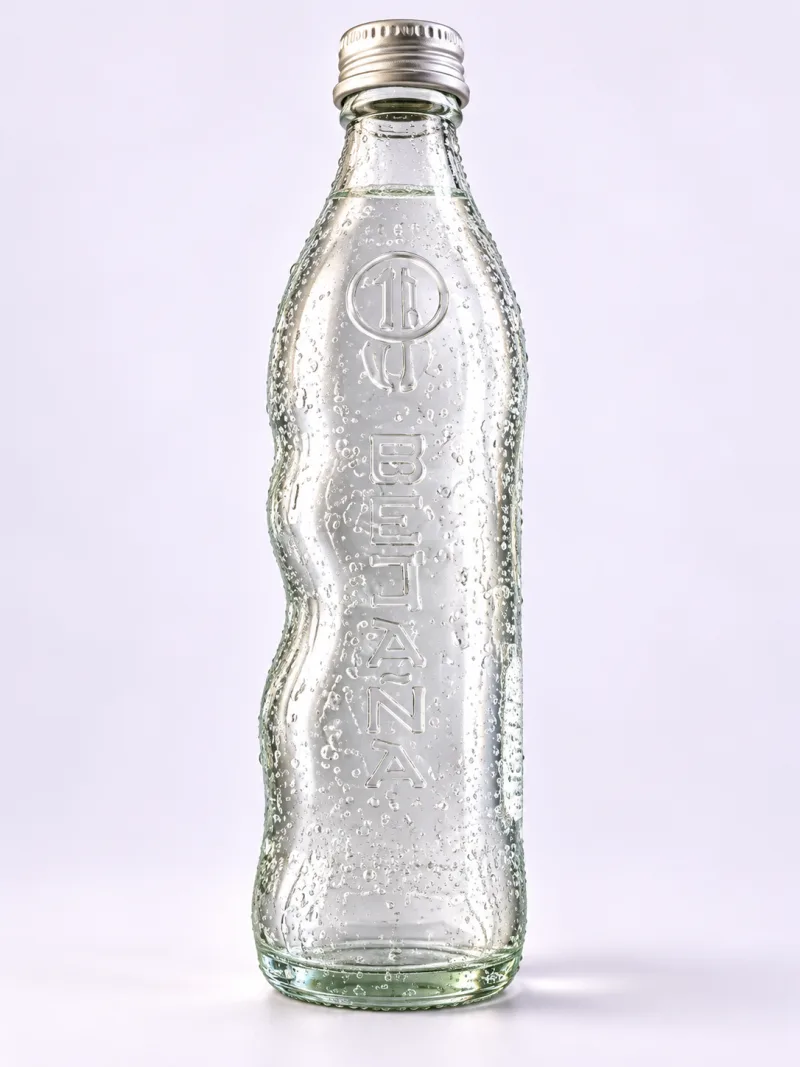
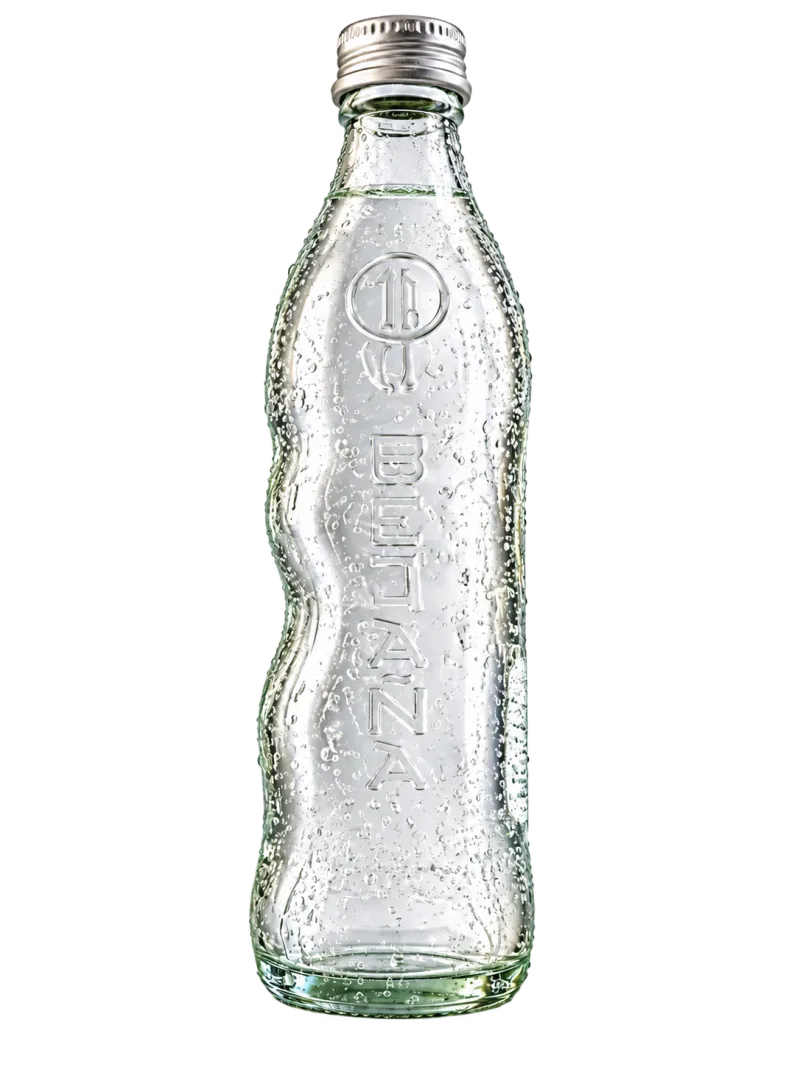
Complete catalog photos and show full images

diff --git a/src/domain/productImages.ts b/src/domain/productImages.ts
@@ -8,17 +8,17 @@ const BARE_FILENAME_RE = /^[^/]+\.(png|jpe?g|webp|avif|gif|svg)$/i;
 // Product-specific overrides live here until catalog images are fully managed in admin.
 const KNOWN_BAD_PRODUCT_IMAGE_IDS = new Set<string>([
   'chilli-burger-veggie',
-  'be1fa199-5029-433f-7ccf-8fce38116665', // TERIYAKI Bowl stock-photo placeholder
-  '1232c37b-9b66-78d2-43af-285c23ddcd7b', // Salchipapa stock-photo placeholder
-  '446beb63-71b7-7242-3797-db75472451d9', // Hamburguesa VEGGIE stock-photo placeholder
-  'edfc2bdb-d986-d364-5080-a7868f942bf4', // Hamburguesa VEGGIE stock-photo placeholder
-  '2422e354-e353-b8ca-626d-a97d577ca8cc', // Hot Dog Americano stock-photo placeholder
 ]);
 
 // ID-based overrides: local images take priority over any Supabase image_url.
 // Used for products whose catalog image_url points to a generic/incorrect stock photo.
 const PRODUCT_IMAGE_OVERRIDES: Record<string, string> = {
   'd631af2e-93d7-44a9-0789-7cf0c824e773': '/images/products/bretana.webp',            // Bretaña 300 ml
+  'be1fa199-5029-433f-7ccf-8fce38116665': '/images/products/bowl-teriyaki.webp',       // TERIYAKI bowl
+  '1232c37b-9b66-78d2-43af-285c23ddcd7b': '/images/products/salchipapa.webp',         // Salchipapa
+  '446beb63-71b7-7242-3797-db75472451d9': '/images/products/hamburguesa-veggie.webp', // VEGGIE burger
+  'edfc2bdb-d986-d364-5080-a7868f942bf4': '/images/products/bowl-veggie.webp',         // VEGGIE bowl
+  '2422e354-e353-b8ca-626d-a97d577ca8cc': '/images/products/perro-americano.webp',    // Americano hot dog
   '23e44c1b-fe27-251a-0759-74f798d65e53': '/images/adicionales/03_guacamole.webp',     // Guacamole
   '3d9f5e71-d95c-7b13-5898-33a0c9e8e04e': '/images/adicionales/04_papas_francesa.webp', // Papa Francesa
   '978c1802-ff11-1e54-8ea9-7995664d91a9': '/images/adicionales/05_pepinillos.webp',      // Pepinillos
@@ -27,17 +27,9 @@ const PRODUCT_IMAGE_OVERRIDES: Record<string, string> = {
   '7e9a2544-4712-8633-f844-0766c82a2a01': '/images/adicionales/06_tocineta.webp',        // Tocineta
 };
 
-const PORTRAIT_PRODUCT_IMAGE_IDS = new Set<string>([
-  'd631af2e-93d7-44a9-0789-7cf0c824e773',
-]);
-
 type ProductImageSource = Pick<Product, 'id' | 'imageUrl'>;
 
 export const PRODUCT_IMAGE_PLACEHOLDER_SRC = '/placeholder.svg';
-
-export function shouldContainProductImage(product: Pick<Product, 'id'>): boolean {
-  return PORTRAIT_PRODUCT_IMAGE_IDS.has(product.id);
-}
 
 export function resolveProductImageUrl(product: ProductImageSource): string | undefined {
   if (PRODUCT_IMAGE_OVERRIDES[product.id]) {

diff --git a/src/components/products/ProductImage.tsx b/src/components/products/ProductImage.tsx
@@ -1,7 +1,7 @@
 import { useEffect, useMemo, useRef, useState } from 'react';
 import { AspectRatio } from '@/components/ui/aspect-ratio';
 import { Skeleton } from '@/components/ui/skeleton';
-import { PRODUCT_IMAGE_PLACEHOLDER_SRC, getProductImageFallbackInitial, resolveProductImageUrl, shouldContainProductImage } from '@/domain/productImages';
+import { PRODUCT_IMAGE_PLACEHOLDER_SRC, getProductImageFallbackInitial, resolveProductImageUrl } from '@/domain/productImages';
 import { cn } from '@/lib/utils';
 import type { Product } from '@/types';
 
@@ -9,14 +9,12 @@ interface ProductImageProps {
   product: Product;
   ratio?: number;
   className?: string;
-  imageClassName?: string;
   fallbackClassName?: string;
 }
 
 function ProductImageContent({
   product,
   className,
-  imageClassName,
   fallbackClassName,
 }: Omit<ProductImageProps, 'ratio'>) {
   const containerRef = useRef<HTMLDivElement>(null);
@@ -57,7 +55,7 @@ function ProductImageContent({
   }, [resolvedImageUrl]);
 
   return (
-    <div ref={containerRef} className={cn('relative h-full w-full overflow-hidden bg-brand-muted', className)}>
+    <div ref={containerRef} className={cn('relative h-full w-full overflow-hidden bg-white', className)}>
       {showImage ? (
         <>
           {!isLoaded ? <Skeleton className="absolute inset-0 rounded-none" /> : null}
@@ -73,10 +71,8 @@ function ProductImageContent({
                 setIsLoaded(false);
               }}
               className={cn(
-                'h-full w-full object-cover transition-all duration-300',
-                shouldContainProductImage(product) && 'object-contain',
-                isLoaded ? 'opacity-100 group-hover:scale-105' : 'opacity-0',
-                imageClassName,
+                'h-full w-full object-contain p-2 transition-opacity duration-300',
+                isLoaded ? 'opacity-100' : 'opacity-0',
               )}
             />
           ) : null}
@@ -102,7 +98,6 @@ export default function ProductImage({
   product,
   ratio = 4 / 3,
   className,
-  imageClassName,
   fallbackClassName,
 }: ProductImageProps) {
   return (
@@ -110,7 +105,6 @@ export default function ProductImage({
       <ProductImageContent
         product={product}
         className={className}
-        imageClassName={imageClassName}
         fallbackClassName={fallbackClassName}
       />
     </AspectRatio>

diff --git a/src/test/product-images.test.ts b/src/test/product-images.test.ts
@@ -1,5 +1,5 @@
 import { describe, expect, it } from 'vitest';
-import { resolveProductImageUrl, shouldContainProductImage } from '@/domain/productImages';
+import { resolveProductImageUrl } from '@/domain/productImages';
 
 describe('product image resolution', () => {
   it('rejects legacy bare filenames that do not exist in the public app', () => {
@@ -28,20 +28,20 @@ describe('product image resolution', () => {
     })).toBeUndefined();
   });
 
-  it('suppresses catalog stock-photo placeholders', () => {
-    const placeholderIds = [
-      'be1fa199-5029-433f-7ccf-8fce38116665',
-      '1232c37b-9b66-78d2-43af-285c23ddcd7b',
-      '446beb63-71b7-7242-3797-db75472451d9',
-      'edfc2bdb-d986-d364-5080-a7868f942bf4',
-      '2422e354-e353-b8ca-626d-a97d577ca8cc',
-    ];
+  it('replaces hidden catalog photos with product-specific local images', () => {
+    const replacements = {
+      'be1fa199-5029-433f-7ccf-8fce38116665': '/images/products/bowl-teriyaki.webp',
+      '1232c37b-9b66-78d2-43af-285c23ddcd7b': '/images/products/salchipapa.webp',
+      '446beb63-71b7-7242-3797-db75472451d9': '/images/products/hamburguesa-veggie.webp',
+      'edfc2bdb-d986-d364-5080-a7868f942bf4': '/images/products/bowl-veggie.webp',
+      '2422e354-e353-b8ca-626d-a97d577ca8cc': '/images/products/perro-americano.webp',
+    };
 
-    for (const id of placeholderIds) {
+    for (const [id, expectedUrl] of Object.entries(replacements)) {
       expect(resolveProductImageUrl({
         id,
         imageUrl: 'https://images.unsplash.com/placeholder?w=400&q=80',
-      })).toBeUndefined();
+      })).toBe(expectedUrl);
     }
   });
 
@@ -52,13 +52,12 @@ describe('product image resolution', () => {
     })).toBe('/images/adicionales/02_queso_frito.webp');
   });
 
-  it('uses the local Bretaña photo and keeps the full bottle visible', () => {
+  it('uses the local Bretaña photo', () => {
     const bretana = {
       id: 'd631af2e-93d7-44a9-0789-7cf0c824e773',
       imageUrl: 'https://example.com/old-bretana.webp',
     };
 
     expect(resolveProductImageUrl(bretana)).toBe('/images/products/bretana.webp');
-    expect(shouldContainProductImage(bretana)).toBe(true);
   });
 });

diff --git a/src/components/ohana/BowlBuilder.tsx b/src/components/ohana/BowlBuilder.tsx
@@ -18,7 +18,7 @@ import {
 } from '@/domain/bowlPricing';
 import { formatGroupedIngredients } from '@/domain/bowlSummary';
 import { formatPrice } from '@/domain/formatPrice';
-import { getAdditionalIngredientImageUrl, resolveProductImageUrl, shouldContainProductImage } from '@/domain/productImages';
+import { getAdditionalIngredientImageUrl, resolveProductImageUrl } from '@/domain/productImages';
 import { cn } from '@/lib/utils';
 import type { BowlBuilderStep, BowlSizeRule, CustomBowl, Ingredient, Product } from '@/types';
 
@@ -1585,7 +1585,7 @@ export default function BowlBuilder({ onComplete }: BowlBuilderProps) {
                         return (
                           <div key={drink.id} className="snap-start shrink-0 w-32 md:w-auto">
                             {resolveProductImageUrl(drink) ? (
-                              <img src={resolveProductImageUrl(drink)} alt={drink.name} className={cn('w-full h-20 object-cover rounded-lg', shouldContainProductImage(drink) && 'object-contain')} />
+                              <img src={resolveProductImageUrl(drink)} alt={drink.name} className="w-full h-20 object-contain bg-white rounded-lg" />
                             ) : (
                               <div className="w-full h-20 bg-brand/20 rounded-lg" />
                             )}
@@ -1624,7 +1624,7 @@ export default function BowlBuilder({ onComplete }: BowlBuilderProps) {
                               <img
                                 src={imgSrc}
                                 alt={ing.name}
-                                className="w-full h-20 object-cover rounded-lg mb-2"
+                                className="w-full h-20 object-contain bg-white rounded-lg mb-2"
                               />
                             )}
                             <p className="text-xs font-semibold line-clamp-1">{ing.name}</p>

diff --git a/src/components/products/ProductDrawer.tsx b/src/components/products/ProductDrawer.tsx
@@ -4,7 +4,7 @@ import { Sheet, SheetContent, SheetDescription, SheetTitle } from '@/components/
 import { Skeleton } from '@/components/ui/skeleton';
 import { useProductDefaultIngredients } from '@/hooks/use-catalog';
 import { formatPrice } from '@/domain/formatPrice';
-import { resolveProductImageUrl, shouldContainProductImage } from '@/domain/productImages';
+import { resolveProductImageUrl } from '@/domain/productImages';
 import { cn } from '@/lib/utils';
 import type { Product, ProductCustomization } from '@/types';
 
@@ -102,7 +102,7 @@ export default function ProductDrawer({ product, open, onClose, onConfirm }: Pro
             <img
               src={resolveProductImageUrl(product)}
               alt={product.name}
-              className={cn('w-full h-40 object-cover rounded-t-2xl sm:rounded-none', shouldContainProductImage(product) && 'object-contain')}
+              className="w-full h-40 object-contain bg-white p-2 rounded-t-2xl sm:rounded-none"
             />
           )}
 

diff --git a/src/components/products/ProductCard.tsx b/src/components/products/ProductCard.tsx
@@ -71,7 +71,6 @@ export default function ProductCard({ product, variant = 'default', categoryName
             product={product}
             ratio={1}
             className="rounded-lg"
-            imageClassName="group-hover:scale-105"
             fallbackClassName="rounded-lg"
           />
         </div>
@@ -100,7 +99,6 @@ export default function ProductCard({ product, variant = 'default', categoryName
         <ProductImage
           product={product}
           ratio={4 / 3}
-          imageClassName="group-hover:scale-105"
         />
 
         <div className="flex flex-col flex-1 p-4 gap-2">

diff --git a/src/test/product-image-loading.test.tsx b/src/test/product-image-loading.test.tsx
@@ -52,6 +52,9 @@ describe('ProductImage loading', () => {
       );
     });
 
-    expect(screen.getByRole('img', { name: product.name })).toHaveAttribute('src', product.imageUrl);
+    const image = screen.getByRole('img', { name: product.name });
+    expect(image).toHaveAttribute('src', product.imageUrl);
+    expect(image).toHaveClass('object-contain');
+    expect(image).not.toHaveClass('group-hover:scale-105');
   });
 });

diff --git a/MENU_SOURCE.md b/MENU_SOURCE.md
@@ -45,3 +45,9 @@ Todas las vistas deben formatear precios con:
 - `src/domain/formatPrice.ts`
 
 Nunca se debe multiplicar por 100 ni dividir por 100 en frontend para productos, bowls, ordenes o domicilios.
+
+## Imagenes de productos
+
+La URL principal viene de `products.image_url`. Las fotos locales que sustituyen imagenes genericas o incorrectas se asignan por ID en `src/domain/productImages.ts` y viven en `public/images/`. Las tarjetas y el detalle muestran la imagen completa con `object-contain` para no cortar botellas ni platos.
+
+Auditoria de staging del 21 de octubre de 2026: 39 productos activos, 12 con imagen local y 27 con archivo publico de Supabase Storage. Los 27 objetos remotos existen y tienen contenido; no hay productos activos sin imagen resuelta.
